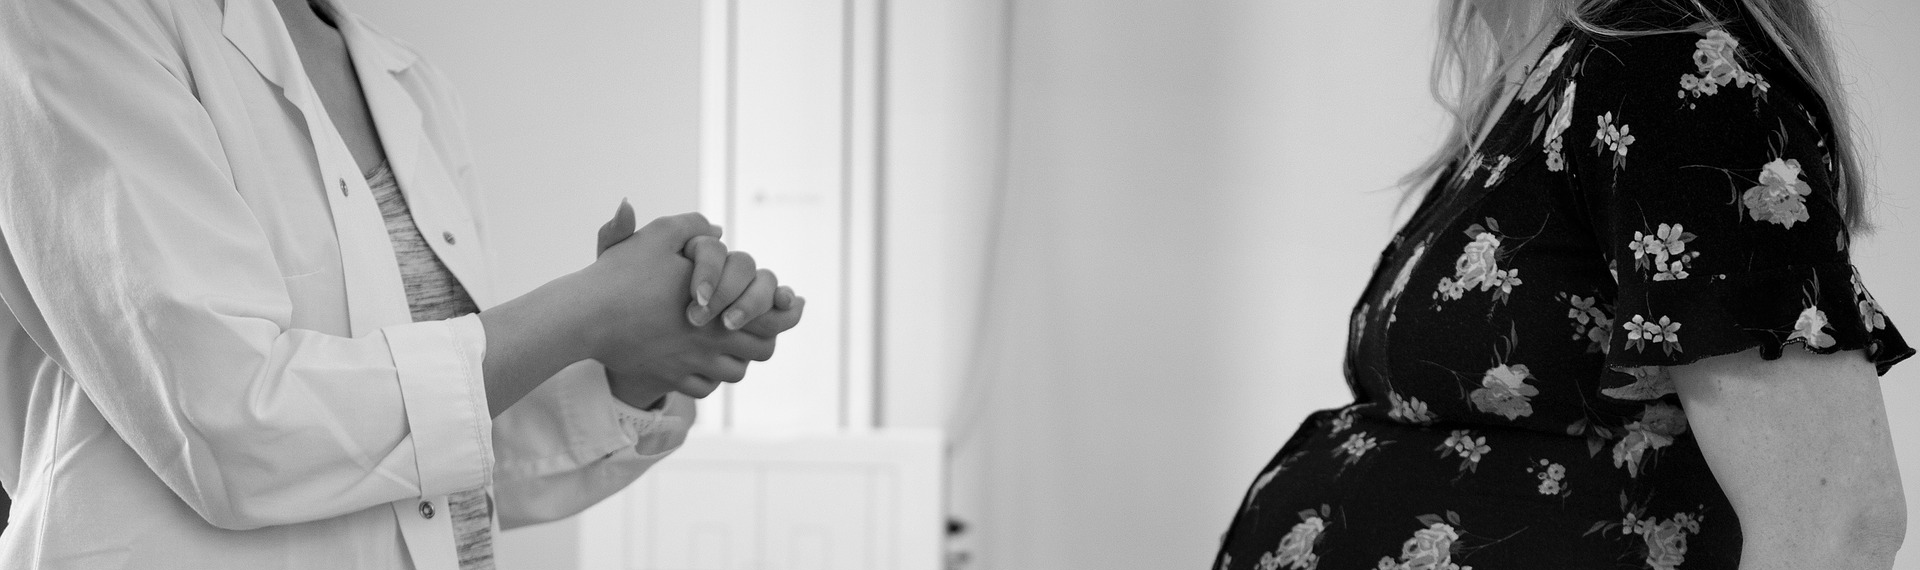
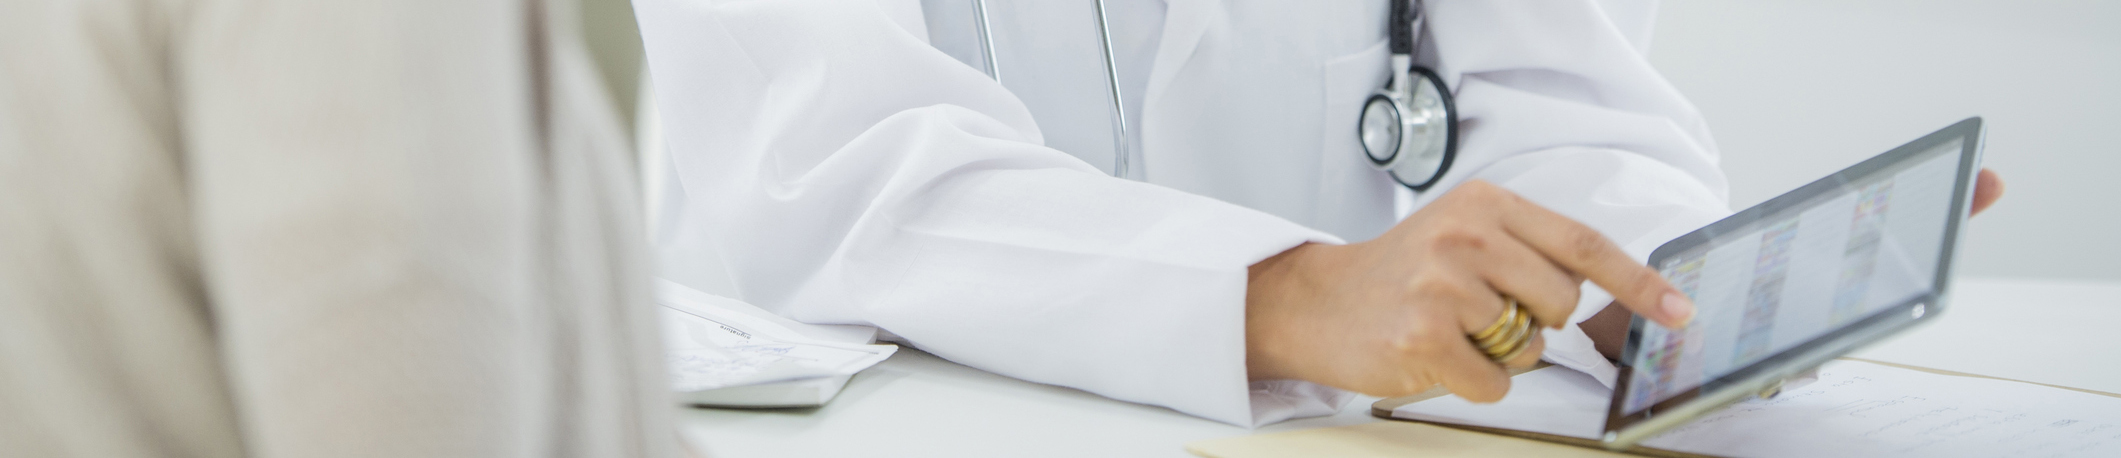
서브 이미지 교체

diff --git a/css/sub.css b/css/sub.css
@@ -2,7 +2,7 @@
 .content{max-width:1200px; margin:5em auto; position: relative;}
 
 /*서브 메인이미지*/
-.submainimg img{width:100%; display: block; height: 300px;}
+.submainimg img{width:100%; display: block; height: 200px;}
 
 /*title, text*/
 h1.sub_title{margin:2em 0; text-align: center; text-indent: 0.5em;}

diff --git a/medical.php b/medical.php
@@ -144,7 +144,7 @@
             </tr>
         </table>
     </div>
-    
+    <? include 'quickmenu.php' ?>
     <? include 'footer.php' ?>
 </body>
 

diff --git a/infertility.php b/infertility.php
@@ -254,6 +254,7 @@
             </ul>
         </div>
     </div>
+    <? include 'quickmenu.php' ?>
     <? include 'footer.php' ?>
 </body>
 

diff --git a/delivery.php b/delivery.php
@@ -39,6 +39,7 @@
             </p>
         </div>
     </div>
+    <? include 'quickmenu.php' ?>
     <? include 'footer.php' ?>
 </body>
 
